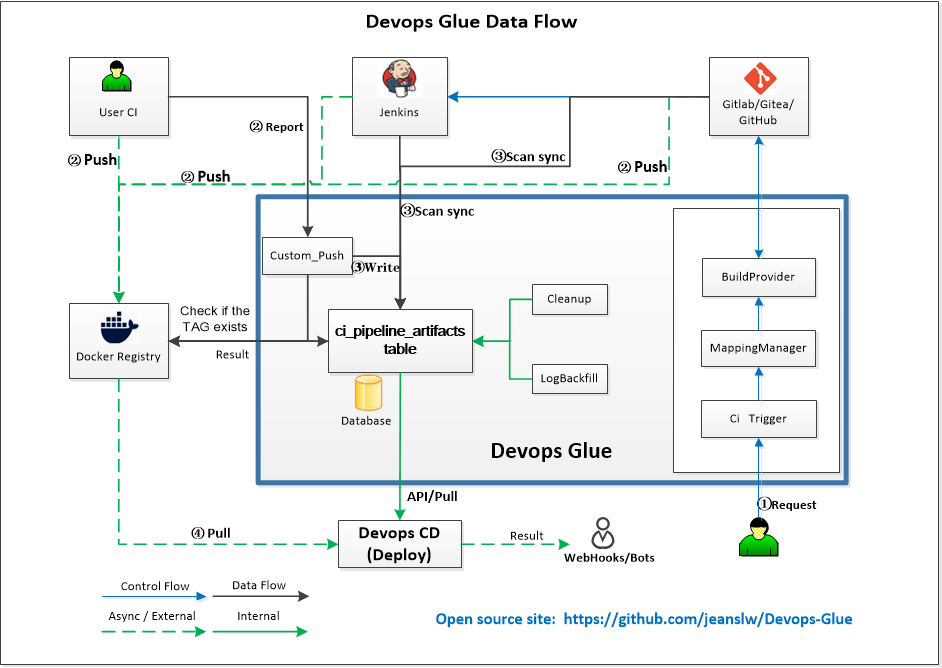
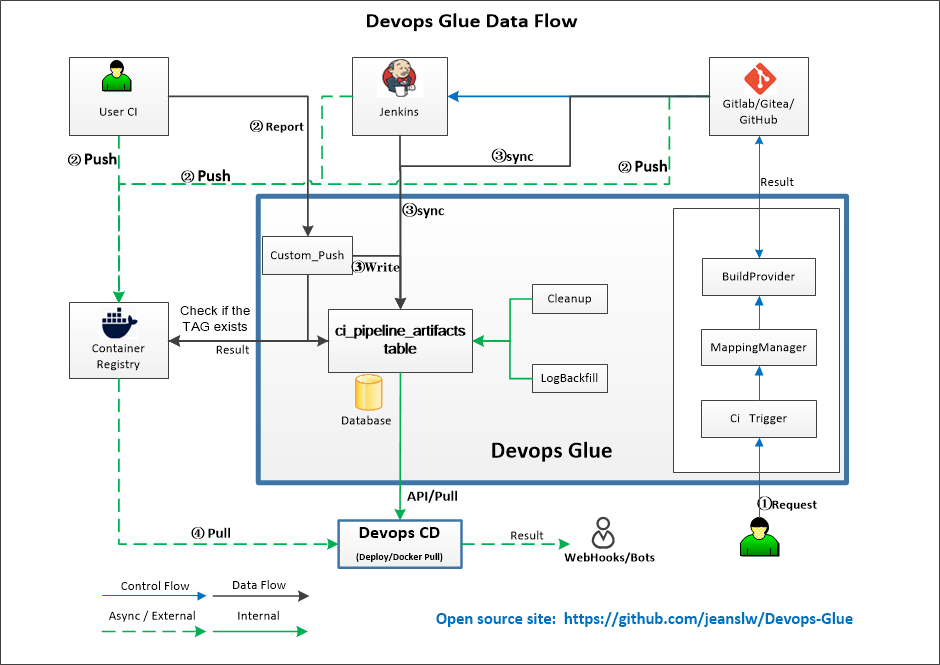
docs:update Screenshot/Documents

diff --git a/docs/架构全景图.md b/docs/架构全景图.md
@@ -1,7 +1,5 @@
 # Devops-Glue 架构全景图
 
-> 线型含义：蓝色实线 = 控制流（触发 / 状态交互）；黑色实线 = 主数据流（直接回流 / 源码拉取）；绿色虚线 = 镜像推拉（②Push / ④pull）；黑色虚线 = 数据库写入（③Write）；点划线 = 只读校验（Check if the TAG exists）。
-
 ## 整体数据流
 
 ![CI 数据流全景](Image/glue-data-flow.png)
@@ -10,15 +8,10 @@
 
 ```
 ┌────────────────────────────────────────────────────────────┐
-│           共享数据库 (SQLite/MySQL/MariaDB)                │
+│           共享/独立数据库 (SQLite/MySQL/MariaDB)           │
 │                                                            │
-│  ci_job_git_map               ← CI 只读                    │
-│  ci_pipeline_artifacts        ← CI 写 / CD读               │
-│  ci_custom_builds             ← Custom_Push 写             │
-│  cd_servers                   ← CD 维护                    │
-│  cd_deploy_logs               ← CD 写                      │
-│  cd_bots                      ← CD maintains               │
-│  ci_admin_users                  ← CI/CD读（共享）         │
+│  ci_*               ← CI 读/写                             │
+│  cd_*               ← CD 读/写                             │
 └────────────────────────────┬───────────────────────────────┘
 			                 │
 		              ┌──────┴──────┐

diff --git a/docs/ARCHITECTURE.md b/docs/ARCHITECTURE.md
@@ -7,15 +7,10 @@
 ## Component Relationships
 ```
 ┌────────────────────────────────────────────────────────────┐
-│Shared Database (SQLite/MySQL/MariaDB)                      │
+│     Shared/Independent Database (SQLite/MySQL/MariaDB)     │
 │                                                            │
-│  ci_job_git_map   ← CI read-only                           │
-│  ci_pipeline_artifacts ← canonical CI artifact facts       │
-│  ci_custom_builds ← Custom_Push write                      │
-│  cd_servers       ← CD maintains                           │
-│  cd_deploy_logs   ← CD writes                              │
-│  cd_bots          ← CD maintains                           │
-│  ci_admin_users      ← CI writes /CD read (Shared)         │
+│  ci_*             ← CI read/write                          │
+│  cd_*             ← CD read/write                          │
 └────────────────────────────┬───────────────────────────────┘
 			                 │
 		              ┌──────┴──────┐
